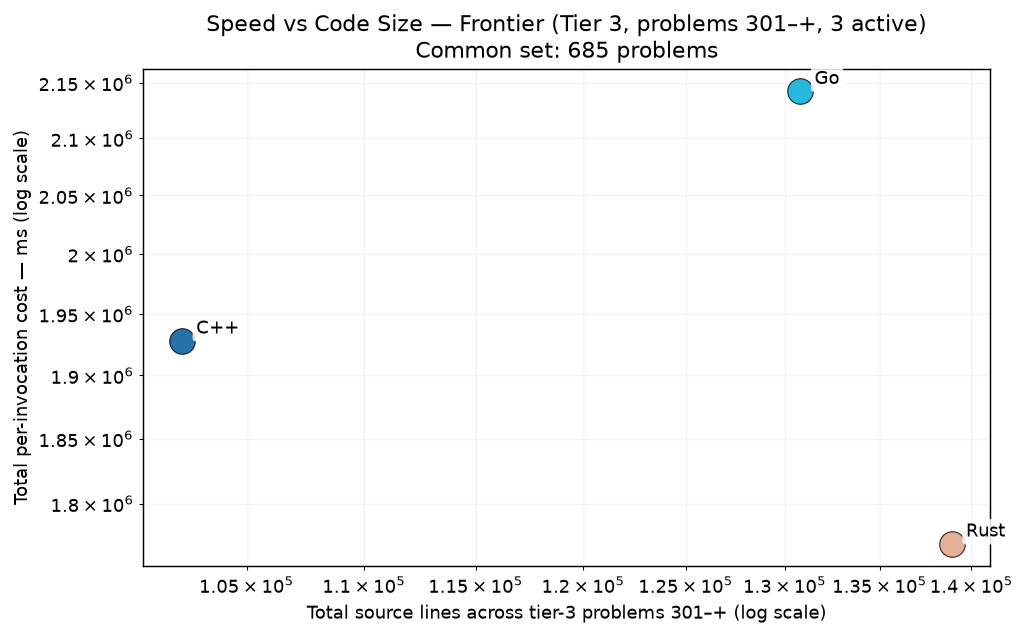
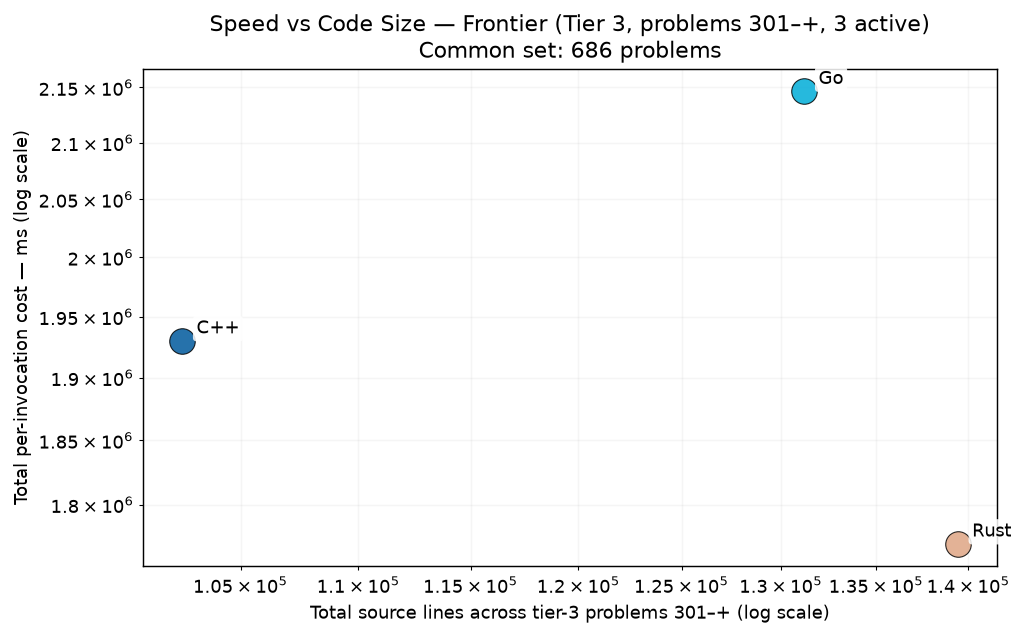
cpp p0941

diff --git a/RESULTS.md b/RESULTS.md
@@ -1,6 +1,6 @@
 # Project Euler — Cross-Language Benchmarks
 
-> **Scope: 4521 in-scope cells across 1007 problems × tiered languages — 4475 measured (99.0% coverage).**
+> **Scope: 4521 in-scope cells across 1007 problems × tiered languages — 4476 measured (99.0% coverage).**
 > The cross-language ranking below is computed over the **200-problem common set** (problems in 1-200 where every language has a passing measurement) — the apples-to-apples Foundation comparison surface.  Per-tier rankings and coverage detail appear further below.
 > Growing carefully — each new problem and language is audited for state-leak
 > safety, verified for answer correctness, and added only when it cleanly fits the
@@ -70,15 +70,15 @@ Same scatter as the Foundation chart, restricted to the tier-2 active languages 
 
 The frontier verification trio — C++, Go, Rust — on problems above 300. 3-way cross-language agreement is the verification protocol (strictly stronger than 2-way; see JOURNEY.md "Tier Reframing" episode for the p254 lesson that motivated it). Python and Zig are explicitly out of this tier — python's wall cost makes it impractical at level 5+, and zig's role caps at Tier 2.
 
-### Per-Invocation Cost (Common Set, 685 of ≤707 problems in scope)
+### Per-Invocation Cost (Common Set, 686 of ≤707 problems in scope)
 
 ![Per-Invocation Cost — Tier 3](charts/per_iter_total_tier3.png)
 
-| Rank | Language | Geomean (685-problem common set) | Total (sum) | Lines of code | vs Fastest |
+| Rank | Language | Geomean (686-problem common set) | Total (sum) | Lines of code | vs Fastest |
 |------|----------|--------------------:|------------:|--------------:|-----------:|
-| 1 | **Rust** | 75.64 ms | 1769.72 s | 138,906 | 1.00× |
-| 2 | **C++** | 78.89 ms | 1928.04 s | 102,332 | 1.04× |
-| 3 | **Go** | 88.45 ms | 2142.28 s | 130,802 | 1.17× |
+| 1 | **Rust** | 75.84 ms | 1770.20 s | 139,422 | 1.00× |
+| 2 | **C++** | 79.28 ms | 1930.21 s | 102,600 | 1.05× |
+| 3 | **Go** | 88.95 ms | 2146.57 s | 131,207 | 1.17× |
 
 ### Speed vs Code Size
 
@@ -264,7 +264,7 @@ table never silently mixes versions (METHODOLOGY.md §4).  Current state of the
 |----------|-----------|------:|---------------|
 | **ARM64** | `Apple clang version 21.0.0 (clang-2100.1.1.101)` | 200 | 2026-07-30 |
 | **C** | `Apple clang version 21.0.0 (clang-2100.1.1.101)` | 200 | 2026-07-30 |
-| **C++** | `Apple clang version 21.0.0 (clang-2100.1.1.101)` | 985 | 2026-09-07 |
+| **C++** | `Apple clang version 21.0.0 (clang-2100.1.1.101)` | 986 | 2026-09-07 |
 | **C#** | `10.0.101` | 200 | 2026-07-30 |
 | **Go** | `go version go1.26.5 darwin/arm64` | 988 | 2026-09-07 |
 | **Java** | `openjdk version "21.0.2" 2024-01-16 LTS` | 200 | 2026-07-30 |

diff --git a/per_problem/per_problem_0901-1000.md b/per_problem/per_problem_0901-1000.md
@@ -48,7 +48,7 @@ in tier-1 display order (native → managed → interpreted).
 | **p0938** | 351.52 ms | 716.81 ms | 529.01 ms |
 | **p0939** | 71.63 ms | 242.46 ms | 92.70 ms |
 | **p0940** | 39.4 µs | 85.7 µs | 3.61 ms |
-| **p0941** | — | 484.69 ms | 4.29 s† |
+| **p0941** | 2.17 s | 484.69 ms | 4.29 s† |
 | **p0942** | — | 127.97 ms | — |
 | **p0943** | — | 3.08 s | 1.69 s |
 | **p0944** | 3.35 s | 1.92 s | 1.87 s |
